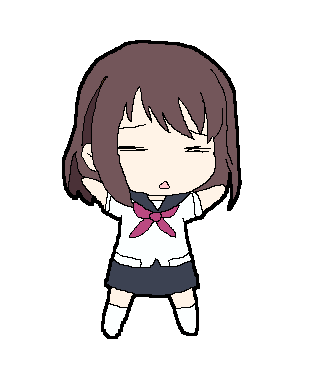
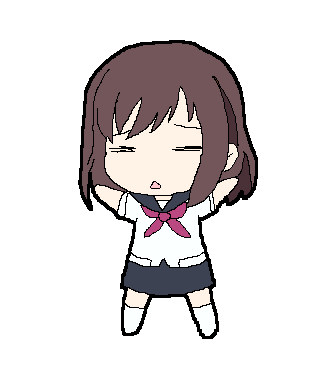
update project pages

Changed region(s): [[0.1875, 0.0902, 0.8125, 0.9317]]

diff --git a/templates/shortcodes/resized.html b/templates/shortcodes/resized.html
@@ -1,8 +1,8 @@
-{% set width = 800 %}
+{% set width = 2048 %}
 {% if page.colocated_path %}
 {% set resize = resize_image(format="webp", path=page.colocated_path ~ img, width=width, height=width, op="fit", quality=85) %}
 {% else %}
 {% set resize = resize_image(format="webp", path=img, width=width, height=width, op="fit", quality=85) %}
 {% endif %}
 
-<img src="{{ resize.url | safe }}" />
+<img src="{{ resize.url | safe }}" class="resized" />

diff --git a/sass/main.scss b/sass/main.scss
@@ -361,10 +361,11 @@ main {
     }
   }
 
-  img {
-    max-width:100%;
-    margin-top: 5px;
-    margin-bottom: 5px;
+  img.resized {
+    width:100%;
+    object-fit:contain;
+    margin-top: 1rem;
+    margin-bottom: 1rem;
   }
 }
 

diff --git a/content/projects/boosterbot/index.md b/content/projects/boosterbot/index.md
@@ -4,25 +4,4 @@ date=2014-08-01
 transparent=true
 +++
 
-A BoosterPack to turn a TI LaunchPad into a robot.
-
 {{ resized(img="boosterbot.jpg") }}
-
-## Features
- * Distance sensing with a Sharp IR distance sensor
- * Line tracking with five QRE1113 reflectance sensors
- * Differential steering with Micro Metal Gearmotors
- * Built-in Power with a 3xAAA battery holder
- * FuelTank BoosterPack support for a larger capacity battery with USB charging
- * Servo Header supports one servo motor
-
-## Compatibility
-BoosterBot adheres to the 40-pin BoosterPack standard, meaning it should be compatible with most 40-pin LaunchPads.
-It has been tested with the MSP430F5529 LaunchPad.
-
-## Software Support
-BoosterBot supports Arduino using the Energia library. There are code examples for line tracking, distance tracking, and wireless communication using Bluetooth and the AIR BoosterPack to get you started.
-
-## Links
-
-[GitHub](https://github.com/Hylian/BoosterBot)

diff --git a/content/projects/note/index.md b/content/projects/note/index.md
@@ -1,23 +1,12 @@
 +++
-title="Tokilabs Note"
+title="Note"
 date=2017-05-01
 transparent=true
 +++
 
-A small controller for the game Sound Voltex.
+### Sound Voltex controller designed with [PCBmodE](https://github.com/boldport/pcbmode)
 
 {{ resized(img="note.jpg") }}
-
-PCB designed with Boldport's [PCBmodE](https://github.com/boldport/pcbmode).
-
-## Features
- * ATmega32U4
- * RGB button backlighing using Adafruit Neopixels
- * Rotary encoders
- * Sanwa arcade buttons
- * Laser-cut acrylic enclosure
- * Rubber feet inserts
- * 160 x 92 mm
 
 {{ resized(img="pcb-render.png") }}
 

diff --git a/content/projects/instax/index.md b/content/projects/instax/index.md
@@ -4,10 +4,11 @@ date=2020-07-01
 transparent=true
 +++
 
-Instax Mini instant film back for the Mamiya RB67.
+### Instax Mini back for Mamiya RB67
 
-{{ resized(img="instax.jpg") }}
+{{ resized(img="instax.jpg") }} <br/>
 
-{{ resized(img="back.jpg") }}
+{{ resized(img="instax_shots.jpg") }} <br/>
 
-{{ resized(img="front.jpg") }}
+{{ resized(img="back.jpg") }} {{ resized(img="front.jpg") }}
+

diff --git a/content/projects/pebblepay/index.md b/content/projects/pebblepay/index.md
@@ -4,8 +4,7 @@ date=2016-01-01
 transparent=true
 +++
 
-CMU Build18 hackathon project to create a Pebble smartwatch accessory that allows you to swipe your credit card with a single tap.
+### [MagSpoof](https://github.com/samyk/magspoof) for Pebble hackathon project
 
 {{ resized(img="pebblepay.jpg") }}
 
-Built off Samy Kamkar's [MagSpoof](https://github.com/samyk/magspoof) research.

diff --git a/content/projects/arducard/index.md b/content/projects/arducard/index.md
@@ -4,21 +4,7 @@ date=2014-03-01
 transparent=true
 +++
 
-An open source e-paper handheld.
-
 {{ resized(img="arducard-back.jpg") }}
 
 {{ resized(img="arducard-front.jpg") }}
 
-## Features
-* ATmega32U4
-* USB
-* DS1343 RTC
-* 128KB FRAM
-* LiR2016 coin cell Li-Ion battery
-* 2.7" e-paper display
-* 80 x 45 x 5mm
-
-## Links
-
-[GitHub](https://github.com/Hylian/arducard)

diff --git a/content/projects/light-meter/index.md b/content/projects/light-meter/index.md
@@ -1,0 +1,15 @@
++++
+title="Light Meter Watch"
+date=2024-08-05
+transparent = true
++++
+
+### Incident Light Meter Watch based on [Sensor Watch](https://www.sensorwatch.net/)
+
+[GitHub](https://github.com/Hylian/Sensor-Watch/tree/hylian/tcs3400)
+
+{{ resized(img="watch.jpg") }}
+
+{{ resized(img="pcb.jpg") }}
+
+{{ resized(img="microscope.jpg") }}

diff --git a/content/projects/piaqm/index.md b/content/projects/piaqm/index.md
@@ -4,10 +4,9 @@ date=2019-03-01
 transparent = true
 +++
 
-An air quality monitor HAT for the Raspbery Pi Zero W.
+### Air quality monitor HAT for Raspbery Pi Zero
+
+[GitHub](https://github.com/Hylian/PiAQM)
 
 {{ resized(img="piaqm.jpg") }}
 
-## Links
-
-[GitHub](https://github.com/Hylian/PiAQM)

diff --git a/content/projects/ir-flash/index.md b/content/projects/ir-flash/index.md
@@ -4,13 +4,11 @@ date=2021-07-22
 transparent = true
 +++
 
-An LED camera flash for infrared film photography.
+### IR LED camera flash 
 
 {{ resized(img="flash.jpg") }}
 
 {{ resized(img="pcb.jpg") }}
-
-## Sample Images
 
 {{ resized(img="sample-1.jpg") }}
 
